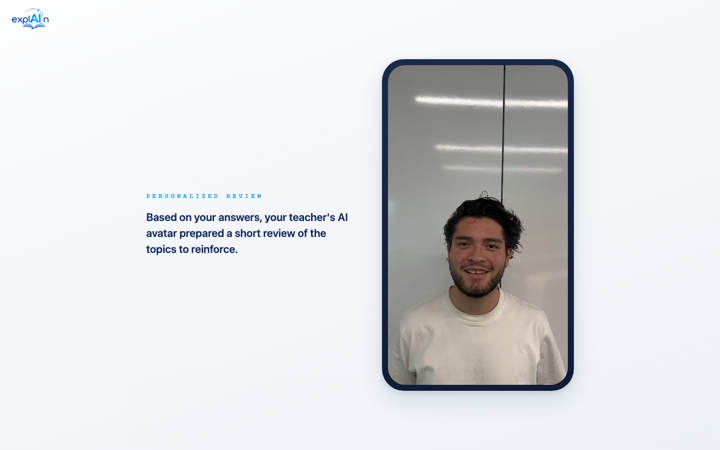
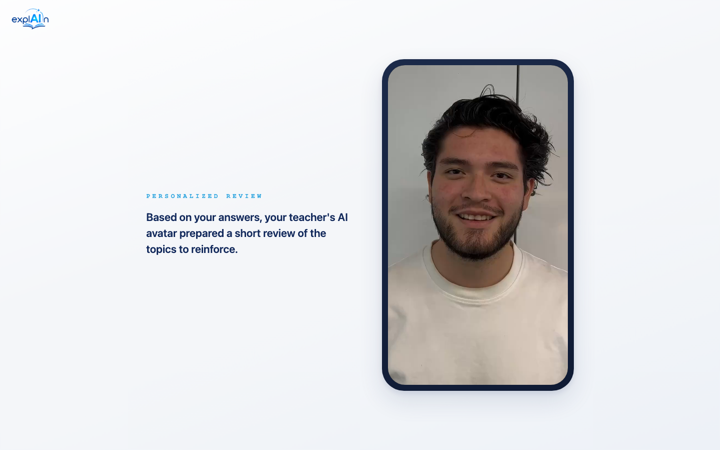
Fix black review video: re-encode new recording, add poster
The replacement recording landed as tutor-intro.mov (HEVC), which
Chrome often can't decode — and the app still pointed at the now-
deleted tutor-intro.mp4, so the phone frame rendered black.

- Re-encode the new .mov to H.264 tutor-intro.mp4 (avconvert).
- Add a poster frame so the phone never shows black before playback,
  plus preload=auto.
- Fix the frame to 9:16 with object-fit: cover — the new recording
  is near-square (1078x1170) and the tight centered framing crops
  cleanly.
- Drop crossorigin=anonymous (unneeded same-origin; breaks file://).

The .mov source stays untracked; the mp4 is the derived asset.

Changed region(s): [[0.5194, 0.1244, 0.7944, 0.8711], [0.5194, 0.4356, 0.55, 0.4667]]

diff --git a/demo/index.html b/demo/index.html
@@ -55,7 +55,7 @@
         </div>
       </div>
       <div class="phone">
-        <video id="review-video" playsinline crossorigin="anonymous">
+        <video id="review-video" playsinline preload="auto" poster="assets/video/tutor-intro-poster.jpg">
           <source type="video/mp4" />
           <track kind="subtitles" srclang="en" label="English" default />
         </video>

diff --git a/demo/styles.css b/demo/styles.css
@@ -186,6 +186,8 @@ h1 {
 #screen-video video {
   display: block;
   height: min(72vh, 640px);
+  aspect-ratio: 9 / 16;
+  object-fit: cover;
   border-radius: 34px;
   background: #000;
 }